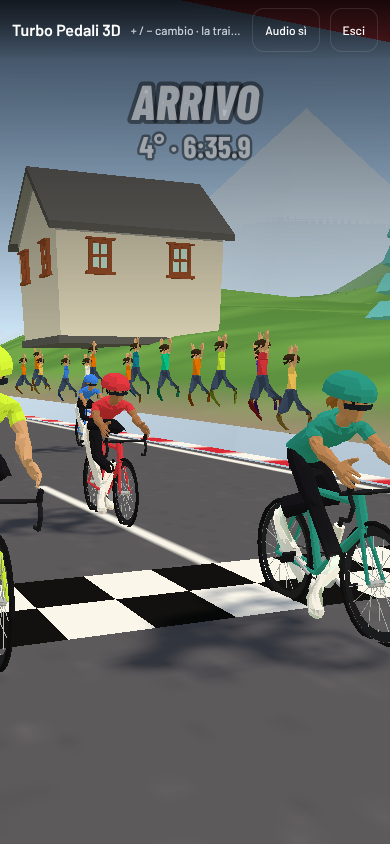
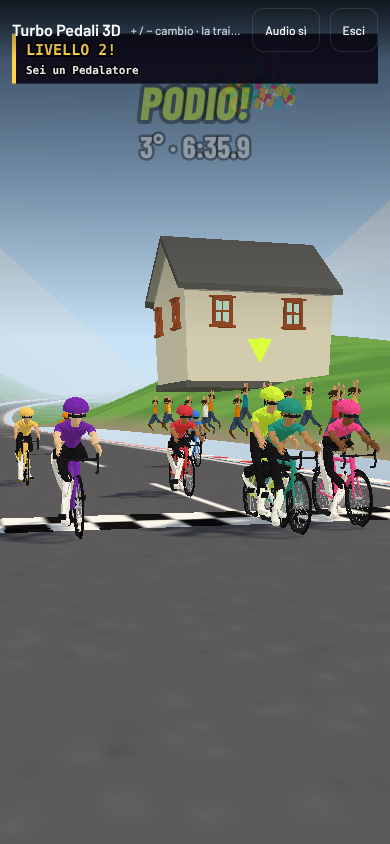
G0: guida di stile dei giochi, crediti Quaternius e meshoptimizer, cache sw v52, test e2e dei giochi 3D, ottimizzazioni (HUD a 30 Hz, pubblico senza casco, pose alterne da lontano), foto aggiornate
Claude-Session: https://claude.ai/code/session_01FrbFniM1L7oFx6scvcX1HE

diff --git a/js/games/racer3d.js b/js/games/racer3d.js
@@ -388,7 +388,10 @@ export class Racer3D {
       const p = this.at(s);
       const plane = new THREE.Mesh(new THREE.PlaneGeometry(ROAD_W + 1.2, 1.3), toonMaterial({ map: labelTexture(text, color, fg), side: THREE.DoubleSide, emissive: '#222222' }));
       plane.position.set(p.x, p.y + 4.6, p.z); plane.rotation.y = p.h + Math.PI;
-      this.scene.add(plane);
+      plane.material.side = THREE.FrontSide;
+      // retro: la stessa scritta leggibile anche da dopo la linea
+      const backP = plane.clone(); backP.rotation.y = p.h; backP.position.set(p.x + Math.sin(p.h) * 0.02, p.y + 4.6, p.z + Math.cos(p.h) * 0.02);
+      this.scene.add(plane, backP);
       for (const side of [-1, 1]) {
         const q = this.at(s, side * (ROAD_W / 2 + 0.7));
         const post = new THREE.Mesh(new THREE.BoxGeometry(0.4, 5.3, 0.4), toonMaterial({ color }));
@@ -782,7 +785,7 @@ export class Racer3D {
     this.finished = true; this.finishT = this.raceT;
     this.standing = this.ranking();
     const place = this.place();
-    this.state = 'finishCam'; this.stateT = 0; this.camMode = 'finish';
+    this.state = 'finishCam'; this.stateT = 0; this.camMode = 'finish'; this.camInit = false;
     this.time.slowmo(0.22, 2.4); this.shake.add(0.35);
     this.audio.stopSong(); this.audio.sfx(place <= 3 ? 'win' : 'lose'); this.audio.sfx('cheer');
     const p = this.at(this.length); this.confetti.burst(p.x, p.y + 5, p.z, 160, 5);
@@ -800,7 +803,7 @@ export class Racer3D {
   }
 
   toPodium() {
-    this.state = 'results'; this.stateT = 0; this.camMode = 'podium';
+    this.state = 'results'; this.stateT = 0; this.camMode = 'podium'; this.camInit = false;
     // chi non è ancora arrivato prende il tempo stimato
     for (const r of this.rivals) if (r.finished == null) r.finished = this.raceT + (this.length - r.s) / Math.max(3, r.speed);
     this.standing = this.ranking();
@@ -847,7 +850,10 @@ export class Racer3D {
       const far = Math.abs(r.s - this.s) > 120; cy.root.visible = !far;
       if (far) return;
       const rc = this.state === 'countdown' ? 0 : 80 + (r.speed / 8) * 12;
-      this.poseRider(cy, r.s, r.x, rc, this.state === 'countdown' ? 0 : r.speed, dt, { stand: r.boost > 0 || this.at(r.s).grade > 5 ? 1 : 0 });
+      // lontani (> 35 m): la posa si aggiorna a fotogrammi alterni
+      const mid = Math.abs(r.s - this.s) > 35;
+      if (mid && (this.frame + i) % 2) { const p = this.at(r.s, r.x); cy.root.position.set(p.x, p.y, p.z); return; }
+      this.poseRider(cy, r.s, r.x, rc, this.state === 'countdown' ? 0 : r.speed, mid ? dt * 2 : dt, { stand: r.boost > 0 || this.at(r.s).grade > 5 ? 1 : 0 });
     });
   }
 
@@ -895,8 +901,8 @@ export class Racer3D {
     } else if (this.state === 'results') {
       const a = this.stateT * 0.12;
       const port = this.H > this.W;
-      const c = this.podium.localToWorld(new THREE.Vector3(Math.sin(a) * 1.0, port ? 2.3 : 2.0, (port ? 6.4 : 5.6) + Math.cos(a) * 0.3));
-      pos = c; look = this.podium.localToWorld(new THREE.Vector3(0, port ? 0.55 : 1.3, 0)); fov = port ? 50 : 42;
+      const c = this.podium.localToWorld(new THREE.Vector3(Math.sin(a) * 1.0 + (port ? 0 : 2.4), port ? 3.2 : 2.3, (port ? 13 : 8.2) + Math.cos(a) * 0.3));
+      pos = c; look = this.podium.localToWorld(new THREE.Vector3(port ? 0 : 2.6, port ? -0.6 : 1.6, 0)); fov = port ? 44 : 40;
     } else {
       const off = sel ? 0 : (this.x || 0) * 0.6;
       const speedK = clamp((this.speed || 0) / 14, 0, 1);
@@ -1113,8 +1119,10 @@ export class Racer3D {
 
   drawResults(ctx, W, H, dt) {
     const u = uiScale(W, H); const place = this.place();
-    const g = ctx.createLinearGradient(0, H * 0.45, 0, H); g.addColorStop(0, 'rgba(8,8,12,0)'); g.addColorStop(0.25, 'rgba(8,8,12,.85)'); g.addColorStop(1, 'rgba(8,8,12,.95)');
-    ctx.fillStyle = g; ctx.fillRect(0, H * 0.45, W, H * 0.55);
+    if (H >= W * 0.83) {
+      const g = ctx.createLinearGradient(0, H * 0.45, 0, H); g.addColorStop(0, 'rgba(8,8,12,0)'); g.addColorStop(0.25, 'rgba(8,8,12,.85)'); g.addColorStop(1, 'rgba(8,8,12,.95)');
+      ctx.fillStyle = g; ctx.fillRect(0, H * 0.45, W, H * 0.55);
+    }
     const g2 = ctx.createLinearGradient(0, 0, 0, 150 * u); g2.addColorStop(0, 'rgba(8,8,12,.75)'); g2.addColorStop(1, 'rgba(8,8,12,0)');
     ctx.fillStyle = g2; ctx.fillRect(0, 0, W, 150 * u);
     txt(ctx, place === 1 ? t('games.racer.victory') : place <= 3 ? t('games.racer.podium') : t('games.racer.finish'), W / 2, 100 * u, { size: 44 * u, align: 'center', color: place <= 3 ? HUD.lime : HUD.white, italic: true });
@@ -1126,15 +1134,17 @@ export class Racer3D {
       v.copy(cy.root.position); v.y += 2.15; v.project(this.camera);
       txt(ctx, `${i + 1}. ${e.me ? you() : first(e.name)}`, (v.x + 1) / 2 * W, (1 - v.y) / 2 * H, { size: 18 * u, align: 'center', color: e.me ? HUD.lime : HUD.white });
     });
-    const y0 = H * 0.6;
+    const land = W > H * 1.2;
+    const cx = land ? W * 0.74 : W / 2; const y0 = land ? H * 0.3 : H * 0.6;
+    if (land) { panel(ctx, cx - 190 * u * 0.85, y0 - 30 * u, 380 * u * 0.85, (60 + this.standing.length * 22) * u, { fill: 'rgba(8,8,12,.72)' }); }
     const gr = this.leader('green'); const km = this.leader('kom');
-    txt(ctx, t('games.racer.jerseysEnd', { green: gr ? who(gr.name) : '-', dots: km ? who(km.name) : '-' }), W / 2, y0, { size: 15 * u, align: 'center', color: HUD.dim });
-    const lh = 22 * u;
+    txt(ctx, t('games.racer.jerseysEnd', { green: gr ? who(gr.name) : '-', dots: km ? who(km.name) : '-' }), cx, y0, { size: 15 * u, align: 'center', color: HUD.dim });
+    const lh = 22 * u; const cw = land ? 0.85 : 1;
     this.standing.forEach((r, i) => {
       const y = y0 + 30 * u + i * lh;
-      txt(ctx, `${i + 1}.`, W / 2 - 130 * u, y, { size: 17 * u, align: 'right', color: r.me ? HUD.lime : HUD.dim });
-      txt(ctx, r.me ? you() : r.name, W / 2 - 120 * u, y, { size: 17 * u, color: r.me ? HUD.lime : HUD.white });
-      txt(ctx, r.fin != null ? fmt(r.fin) : '', W / 2 + 140 * u, y, { size: 17 * u, align: 'right', color: r.me ? HUD.lime : HUD.dim });
+      txt(ctx, `${i + 1}.`, cx - 130 * u * cw, y, { size: 17 * u, align: 'right', color: r.me ? HUD.lime : HUD.dim });
+      txt(ctx, r.me ? you() : r.name, cx - 120 * u * cw, y, { size: 17 * u, color: r.me ? HUD.lime : HUD.white });
+      txt(ctx, r.fin != null ? fmt(r.fin) : '', cx + 140 * u * cw, y, { size: 17 * u, align: 'right', color: r.me ? HUD.lime : HUD.dim });
     });
     if (this.stateT > 2) txt(ctx, t('games.racer.endKeys'), W / 2, H - 30 * u, { size: 20 * u, align: 'center', color: HUD.lime });
     this.hooks.progress?.drawToasts(ctx, W, dt);
@@ -1146,8 +1156,11 @@ export class Racer3D {
     this.last = now;
     const dt = this.time.step(realDt);
     this.update(dt, realDt);
+    this.frame = (this.frame || 0) + 1;
     if (this.scene && this.state !== 'error') this.draw(dt, realDt);
-    this.drawHud(realDt);
+    // l'HUD (canvas 2D, testo con contorno) si ridisegna a 30 Hz: basta per i numeri e costa la metà
+    this.hudDt = (this.hudDt || 0) + realDt;
+    if (this.frame % 2 === 0 || this.state === 'loading') { this.drawHud(this.hudDt); this.hudDt = 0; }
     requestAnimationFrame(this.loop);
   }
 }
@@ -1196,7 +1209,7 @@ function podiumBackTexture(title) {
   const g = c.getContext('2d');
   const gr = g.createLinearGradient(0, 0, 0, 256); gr.addColorStop(0, '#1b1a24'); gr.addColorStop(1, '#2c2a3a'); g.fillStyle = gr; g.fillRect(0, 0, 512, 256);
   for (let i = 0; i < 9; i++) { g.fillStyle = i % 2 ? '#d9ff3d' : '#4de3ff'; g.globalAlpha = 0.18; g.fillRect(i * 64 - 30, 0, 26, 256); }
-  g.globalAlpha = 1; g.fillStyle = '#d9ff3d'; g.font = 'italic 900 64px "Roboto Condensed", "Arial Narrow", sans-serif'; g.textAlign = 'center'; g.fillText(title, 256, 92, 480);
+  g.globalAlpha = 1; g.fillStyle = '#b8dc2c'; g.font = 'italic 900 64px "Roboto Condensed", "Arial Narrow", sans-serif'; g.textAlign = 'center'; g.fillText(title, 256, 92, 480);
   const t = new THREE.CanvasTexture(c); t.colorSpace = THREE.SRGBColorSpace; return t;
 }
 function questionTexture() {

diff --git a/sw.js b/sw.js
@@ -1,5 +1,6 @@
-const CACHE = 'spindro-v51';
-const ASSETS = ['./', 'index.html', 'css/style.css', 'js/app.js', 'js/ftms.js', 'js/trainers/index.js', 'js/trainers/fec.js', 'js/trainers/wahoo.js', 'js/click.js', 'js/gears.js', 'js/hr.js', 'js/fit.js', 'js/native.js', 'js/build.js', 'js/powermeter.js', 'vendor/capacitor/capacitor.js', 'js/strava.js', 'js/config.js', 'js/debug.js', 'js/debugview.js', 'js/games/engine.js', 'js/games/audio.js', 'js/games/strike.js', 'js/games/racer3d.js', 'js/games/kit3d.js', 'js/games/horde.js', 'js/games/strike3d.js', 'js/games/progress.js', 'js/watchguide.js', 'js/games/base3d.js', 'js/games/gruppetto.js', 'js/games/mattoni.js', 'js/games/planata.js', 'js/videoride.js', 'js/workouts.js', 'js/history.js', 'js/route.js', 'js/sharecard.js', 'js/editor.js', 'js/ui.js', 'js/i18n.js', 'locales/it.json', 'locales/en.json', 'locales/fr.json', 'locales/es.json', 'locales/de.json', 'js/coach.js', 'js/celebrate.js', 'js/clicknav.js', 'manifest.webmanifest', 'icons/icon.svg', 'js/monitor.js', 'js/report.js', 'js/account/index.js', 'js/account/sdk.js', 'js/account/ui.js', 'js/account/sync.js', 'js/account/sync-core.js', 'js/account/boards.js', 'js/challenges.js'];
+const CACHE = 'spindro-v52';
+// I modelli 3D (assets/3d) e il decoder meshopt non sono nel precache: si salvano in cache al primo uso (rete prima, cache come riserva).
+const ASSETS = ['./', 'index.html', 'css/style.css', 'js/app.js', 'js/ftms.js', 'js/trainers/index.js', 'js/trainers/fec.js', 'js/trainers/wahoo.js', 'js/click.js', 'js/gears.js', 'js/hr.js', 'js/fit.js', 'js/native.js', 'js/build.js', 'js/powermeter.js', 'vendor/capacitor/capacitor.js', 'js/strava.js', 'js/config.js', 'js/debug.js', 'js/debugview.js', 'js/games/engine.js', 'js/games/audio.js', 'js/games/strike.js', 'js/games/racer3d.js', 'js/games/kit3d.js', 'js/games/kit/loader.js', 'js/games/kit/style.js', 'js/games/kit/quality.js', 'js/games/kit/juice.js', 'js/games/kit/cyclist.js', 'js/games/kit/env.js', 'js/games/kit/hud.js', 'js/games/horde.js', 'js/games/strike3d.js', 'js/games/progress.js', 'js/watchguide.js', 'js/games/base3d.js', 'js/games/gruppetto.js', 'js/games/mattoni.js', 'js/games/planata.js', 'js/videoride.js', 'js/workouts.js', 'js/history.js', 'js/route.js', 'js/sharecard.js', 'js/editor.js', 'js/ui.js', 'js/i18n.js', 'locales/it.json', 'locales/en.json', 'locales/fr.json', 'locales/es.json', 'locales/de.json', 'js/coach.js', 'js/celebrate.js', 'js/clicknav.js', 'manifest.webmanifest', 'icons/icon.svg', 'js/monitor.js', 'js/report.js', 'js/account/index.js', 'js/account/sdk.js', 'js/account/ui.js', 'js/account/sync.js', 'js/account/sync-core.js', 'js/account/boards.js', 'js/challenges.js'];
 
 self.addEventListener('install', (e) => {
   e.waitUntil(caches.open(CACHE).then((c) => c.addAll(ASSETS)).then(() => self.skipWaiting()));

diff --git a/js/games/kit/cyclist.js b/js/games/kit/cyclist.js
@@ -289,7 +289,6 @@ export class Cyclist {
     _q.setFromUnitVectors(_v, _v2.copy(dir).normalize()).multiply(r.q);
     if (twist) _q.premultiply(_q2.setFromAxisAngle(_v2, twist));
     // quaternione locale = (quaternione del padre nello spazio lean)^-1 · desiderato
-    b.parent.updateWorldMatrix(true, false);
     const pq = this.leanQinv.clone().multiply(b.parent.getWorldQuaternion(_q2));
     b.quaternion.copy(pq.invert().multiply(_q));
     b.updateMatrixWorld(true);
@@ -298,7 +297,6 @@ export class Cyclist {
   orient(name, rot) {
     const r = this.ref[name]; const b = this.bones[name]; if (!r || !b) return;
     _q.copy(rot).multiply(r.q);
-    b.parent.updateWorldMatrix(true, false);
     const pq = this.leanQinv.clone().multiply(b.parent.getWorldQuaternion(_q2));
     b.quaternion.copy(pq.invert().multiply(_q));
     b.updateMatrixWorld(true);
@@ -422,9 +420,17 @@ export async function makeCrowdGeometry(url = FAN_URL) {
   for (let i = 0; i < n; i++) tint[i] = part[i] === 1 || part[i] === 2 ? 1 : 0;
   geo.setAttribute('tint', new THREE.BufferAttribute(tint, 1));
   geo.setAttribute('color', body.geometry.attributes.color);
-  geo.computeVertexNormals(); geo.computeBoundingSphere();
+  // il pubblico non porta casco né occhiali: si tolgono quei triangoli (meno lavoro per la GPU)
+  const keep = []; for (let i = 0; i < n; i += 3) if (part[i] !== 7 && part[i] !== 8) keep.push(i);
+  const out2 = new THREE.BufferGeometry();
+  for (const k of ['position', 'tint', 'color']) {
+    const a = geo.attributes[k]; const sz = a.itemSize; const arr = new Float32Array(keep.length * 3 * sz);
+    keep.forEach((v, j) => arr.set(a.array.subarray(v * sz, (v + 3) * sz), j * 3 * sz));
+    out2.setAttribute(k, new THREE.BufferAttribute(arr, sz));
+  }
+  out2.computeVertexNormals(); out2.computeBoundingSphere();
   dummy.dispose();
-  return geo;
+  return out2;
 }
 
 export function crowdMaterial() {

diff --git a/docs/giochi-stile.md b/docs/giochi-stile.md
@@ -1,0 +1,78 @@
+# Stile dei giochi 3D di Spindro
+
+Un solo stile per tutti i giochi. Si ottiene con modelli **low-poly CC0** (Quaternius, Kenney) e con il codice
+condiviso in `js/games/kit/`. Il gioco di riferimento è **Turbo Pedali** (`js/games/racer3d.js`):
+le foto sono in `docs/giochi-shots/`.
+
+## 1. Idea
+Giocattolo luminoso, pomeriggio d'estate, corsa vera. Forme semplici, colori pieni, luce calda.
+Mai realistico, mai cupo. Niente loghi, nomi o personaggi di altri giochi.
+
+## 2. Palette (`PALETTE` in `kit/style.js`)
+| Uso | Colori |
+|---|---|
+| Marchio, giocatore, numeri importanti | lime `#d9ff3d`, inchiostro `#15141b` |
+| Accenti HUD | ciano `#4de3ff` (scia, sprint), oro `#ffd34d` (avvisi), rosso `#ff5a6a` (salita dura, arrivo) |
+| Avversari (maglie) | 10 colori saturi, uno per corridore, mai il lime |
+| Mondo | erba `#86b84f`/`#5f9440`, asfalto `#5a5960`, terra `#c08a5b`, roccia `#a99a8c` |
+
+Regola: il lime appartiene al giocatore. Nel mondo i colori sono più spenti dei personaggi.
+
+## 3. Luce, cielo, nebbia
+- Tre **ore del giorno** (`TIMES`): `morning`, `golden`, `dusk`. Una per livello.
+- **Cielo a gradiente** con alone del sole (`skyDome`): alto, orizzonte, basso.
+- **Luce**: emisfera (cielo/terra) + un sole con ombre che segue il giocatore (`styleLights`).
+- **Nebbia** lineare del colore dell'orizzonte (`styleFog`, 80–520 m): nasconde il fondo e fa profondità.
+
+## 4. Materiali
+- **Toon** con rampa a 3 toni (`toonMaterial`): il sole fa ombre nette, l'emisfera dà il gradiente leggero.
+- Colori per vertice invece di texture quando possibile: una geometria, un materiale, un draw call.
+- Texture solo piccole (palette 32×32, scritte disegnate al volo).
+
+## 5. Camera
+- FOV 60° (in volata fino a ~75°: la velocità si sente).
+- Inseguimento morbido 5–6 m dietro, 2 m sopra, sguardo 20 m avanti: si vede l'orizzonte.
+- **Stacchi netti** per i momenti speciali (arrivo, podio), non carrellate lente.
+- **Scossa** a trauma (`Shake`): urto 0,55, oggetto 0,35, via 0,3. Mai durante la lettura dei numeri.
+
+## 6. HUD (in bici, telefono a 1 m)
+- Numeri chiave **≥ 44 px** (watt e posizione 58 px), etichette ≥ 13 px, font condensato pesante, contorno scuro.
+- Angoli fissi: posizione in alto a sinistra, **watt** in alto a destra (colore = zona), distanza al centro,
+  pendenza in un riquadro colorato, marcia sotto la posizione, profilo in basso.
+- Pannelli semitrasparenti, mai a tutto schermo durante la corsa.
+- Nomi sopra gli avversari vicini: al massimo 4, senza sovrapposizioni.
+
+## 7. Juice: ogni evento si vede e si sente
+| Evento | Effetto |
+|---|---|
+| Moneta | scintilla, testo "+1", suono |
+| Oggetto preso / usato | esplosione di particelle, hit-stop 0,05 s, scossa, FOV più largo |
+| Scia | cuneo chiaro sull'asfalto dietro chi ti precede, linee di vento, "whoosh" |
+| Sorpasso | suono, testo; negli ultimi 400 m un attimo di rallentatore |
+| Ultimi 500 m | striscione, campanella |
+| Arrivo | rallentatore 0,22× per ~2 s, coriandoli, stacco di camera |
+| Podio | ciclisti in piedi, braccia alzate, coriandoli, tifo |
+| + / − | marcia evidenziata nell'HUD, click del cambio |
+
+Le particelle usano le texture Kenney di `assets/fx`. I suoni sono sintetizzati in `js/games/audio.js`.
+
+## 8. Prestazioni
+- Obiettivo **60 fps** su Android medio, **minimo 30**.
+- **Draw call < 150**: istanze per tutto ciò che si ripete (`kit/env.js`), personaggio in una mesh sola.
+- Triangoli in vista < 250k (alta), < 120k (bassa).
+- Modelli **.glb ottimizzati** (gltf-transform: weld, semplificazione, quantizzazione, meshopt). Texture piccole.
+- **Qualità automatica** (`kit/quality.js`): si misura il frame rate nei primi secondi e si scende di livello.
+
+| Livello | Pixel ratio | Ombre | Bagliore | Densità oggetti | Pubblico |
+|---|---|---|---|---|---|
+| Alta | 1,5 | 1024 | sì | 100% | 100% |
+| Media | 1,0 | 512 | no | 70% | 60% |
+| Bassa | 0,75 | no | no | 40% | 30% |
+
+Si può fissare in *Giochi → Qualità grafica*.
+
+## 9. Asset
+- Solo CC0 / MIT / OFL, con `License.txt` nella cartella e crediti in README e `docs/legal/licenses.*.md`.
+- Personaggi: `assets/3d/quaternius/cyclist.glb` (scheletro vero) e `fan.glb` (versione leggera per il pubblico).
+  Le pose si calcolano sulle ossa (IK delle gambe sui pedali), le maglie si colorano per vertice.
+- Peso dei nuovi asset dei giochi: tenere ogni aggiunta sotto i 6 MB.

diff --git a/docs/legal/licenses.it.md b/docs/legal/licenses.it.md
@@ -15,6 +15,7 @@ Il codice di Spindro è rilasciato con licenza **GNU GPL-3.0** *(licenza previst
 | Componente | Versione | Licenza | Dove |
 |---|---|---|---|
 | **three.js** (Mrdoob e autori di three.js) | r170 | MIT | `vendor/three/three.module.min.js` e `vendor/three/addons/` (GLTFLoader, EffectComposer, UnrealBloomPass e altri effetti). Testo: `vendor/three/LICENSE`. © 2010-2024 three.js authors |
+| **meshoptimizer** — decoder (Arseny Kapoulkine) | 0.18+ (copia di three r170) | MIT | `vendor/three/addons/libs/meshopt_decoder.module.js`: decomprime i modelli 3D ottimizzati. Licenza nell'intestazione del file. |
 | **Capacitor Core** (Drifty Co.) | 7.6.10 | MIT | `vendor/capacitor/capacitor.js` (build di `@capacitor/core`). Testo: `vendor/capacitor/LICENSE`. © 2017-present Drifty Co. |
 | **@capacitor/android** | 7.6.10 | MIT | Dipendenza di `package.json`, parte dell'app Android |
 | **@capacitor-community/bluetooth-le** | 7.3.2 | MIT | Dipendenza di `package.json`, Bluetooth dell'app Android |
@@ -37,7 +38,7 @@ Le licenze delle altre dipendenze indirette del lockfile (`package-lock.json`) s
 
 ## Grafica, modelli 3D e suoni
 
-Tutto proviene da **Kenney** ([kenney.nl](https://www.kenney.nl)), con licenza **Creative Commons Zero (CC0 1.0)**: uso libero anche commerciale, il credito non è obbligatorio. Lo diamo volentieri.
+Provengono da **Kenney** ([kenney.nl](https://www.kenney.nl)) e da **Quaternius** ([quaternius.com](https://quaternius.com)), con licenza **Creative Commons Zero (CC0 1.0)**: uso libero anche commerciale, il credito non è obbligatorio. Lo diamo volentieri.
 
 | Cartella | Contenuto | File | Licenza |
 |---|---|---|---|
@@ -47,12 +48,13 @@ Tutto proviene da **Kenney** ([kenney.nl](https://www.kenney.nl)), con licenza *
 | `assets/3d/nature/` | Nature Kit 2.1 (alberi, rocce, piante) | 30 | CC0 |
 | `assets/3d/pickups/` | Platformer Kit 4.1 (monete, cuore, gemma, stella) | 4 | CC0 |
 | `assets/3d/racing/` | Racing Kit 1.2 (barriere, bandiere, tribune) | 30 | CC0 |
+| `assets/3d/quaternius/` | **Quaternius**: Ultimate Modular Men (ciclista e pubblico), Simple Nature Pack, Farm Buildings, Simple Buildings — convertiti e ottimizzati | 26 | CC0 |
 | `assets/audio/jingles/` | Music Jingles (musichette dei giochi) | 9 | CC0 |
 | `assets/fx/` | Particle Pack (particelle ed effetti) | 12 | CC0 |
 
-Ogni cartella contiene il file `License.txt` originale di Kenney.
+Ogni cartella contiene il file `License.txt` originale (di Kenney o di Quaternius, con l'elenco dei pacchetti e delle modifiche).
 
-**Grazie, Kenney.**
+**Grazie, Kenney e Quaternius.**
 
 ## Altre risorse
 

diff --git a/docs/legal/licenses.en.md b/docs/legal/licenses.en.md
@@ -15,6 +15,7 @@ Spindro's code is released under the **GNU GPL-3.0** licence *(planned licence: 
 | Component | Version | Licence | Where |
 |---|---|---|---|
 | **three.js** (Mrdoob and the three.js authors) | r170 | MIT | `vendor/three/three.module.min.js` and `vendor/three/addons/` (GLTFLoader, EffectComposer, UnrealBloomPass and other effects). Text: `vendor/three/LICENSE`. © 2010-2024 three.js authors |
+| **meshoptimizer** — decoder (Arseny Kapoulkine) | 0.18+ (copy from three r170) | MIT | `vendor/three/addons/libs/meshopt_decoder.module.js`: decompresses the optimised 3D models. Licence in the file header. |
 | **Capacitor Core** (Drifty Co.) | 7.6.10 | MIT | `vendor/capacitor/capacitor.js` (build of `@capacitor/core`). Text: `vendor/capacitor/LICENSE`. © 2017-present Drifty Co. |
 | **@capacitor/android** | 7.6.10 | MIT | `package.json` dependency, part of the Android app |
 | **@capacitor-community/bluetooth-le** | 7.3.2 | MIT | `package.json` dependency, Bluetooth of the Android app |
@@ -37,7 +38,7 @@ The licences of the other indirect dependencies in the lockfile (`package-lock.j
 
 ## Graphics, 3D models and sounds
 
-Everything comes from **Kenney** ([kenney.nl](https://www.kenney.nl)), under the **Creative Commons Zero (CC0 1.0)** licence: free to use, also commercially, credit not required. We gladly give it.
+They come from **Kenney** ([kenney.nl](https://www.kenney.nl)) and **Quaternius** ([quaternius.com](https://quaternius.com)), under the **Creative Commons Zero (CC0 1.0)** licence: free to use, also commercially, credit not required. We gladly give it.
 
 | Folder | Content | Files | Licence |
 |---|---|---|---|
@@ -47,12 +48,13 @@ Everything comes from **Kenney** ([kenney.nl](https://www.kenney.nl)), under the
 | `assets/3d/nature/` | Nature Kit 2.1 (trees, rocks, plants) | 30 | CC0 |
 | `assets/3d/pickups/` | Platformer Kit 4.1 (coins, heart, gem, star) | 4 | CC0 |
 | `assets/3d/racing/` | Racing Kit 1.2 (barriers, flags, grandstands) | 30 | CC0 |
+| `assets/3d/quaternius/` | **Quaternius**: Ultimate Modular Men (cyclist and crowd), Simple Nature Pack, Farm Buildings, Simple Buildings — converted and optimised | 26 | CC0 |
 | `assets/audio/jingles/` | Music Jingles (game jingles) | 9 | CC0 |
 | `assets/fx/` | Particle Pack (particles and effects) | 12 | CC0 |
 
-Each folder contains Kenney's original `License.txt` file.
+Each folder contains the original `License.txt` file (Kenney's or Quaternius's, with the list of packs and changes).
 
-**Thank you, Kenney.**
+**Thank you, Kenney and Quaternius.**
 
 ## Other resources
 

diff --git a/README.md b/README.md
@@ -26,8 +26,8 @@ leggere i dati e cambiare l'intensità con un **cambio virtuale a 24 marce** in 
   anche se ricarichi la pagina.
 - **Giochi** (pulsante *🎮 Gioca*), grafica pixel-art, musica chiptune che segue la tua cadenza,
   le salite arrivano sul rullo come pendenza reale. Vedi [docs/giochi.md](docs/giochi.md).
-  - **Turbo Pedali 3D**: tappa in linea in 3D (Three.js + modelli Kenney CC0) con 8 corridori con
-    nome e carattere, 3 tappe (mare, montagna, colline), scia, monete, oggetti attivati con uno sprint
+  - **Turbo Pedali 3D**: tappa in linea in 3D (Three.js + modelli Quaternius e Kenney CC0) con 8 ciclisti
+    animati con nome e carattere, + / − per il cambio, pubblico in salita, arrivo al rallentatore e podio, 3 tappe (mare, montagna, colline), scia, monete, oggetti attivati con uno sprint
     vero, traguardo volante e GPM con maglie, profilo altimetrico, podio e record.
   - **Pedal Strike 3D**: sparatutto a scorrimento laterale in 3D con 3 eroi, 3 missioni (campagna,
     deserto, cimitero del Barone), 5 armi, prigionieri da liberare, 3 boss; i watt decidono la cadenza
@@ -106,6 +106,9 @@ python3 -m http.server 8000
 ## Crediti
 - Modelli 3D: [Kenney](https://kenney.nl) — Racing Kit, Nature Kit, Blocky Characters, Graveyard Kit,
   Blaster Kit, Platformer Kit (gioielli e monete) (CC0), in `assets/3d`.
+- Modelli 3D: [Quaternius](https://quaternius.com) — Ultimate Modular Men (ciclista e pubblico), Simple Nature Pack,
+  Farm Buildings, Simple Buildings (CC0), in `assets/3d/quaternius` (convertiti e ottimizzati).
+- Decoder meshopt: [meshoptimizer](https://github.com/zeux/meshoptimizer) (MIT), in `vendor/three/addons/libs`.
 - Particelle: Kenney — Particle Pack (CC0), in `assets/fx` (scie dei colpi, lampi, fumo, scintille).
 - Jingle: Kenney — Music Jingles (CC0), in `assets/audio/jingles`.
 - Motore 3D: [three.js](https://threejs.org) (MIT), in `vendor/three`.
